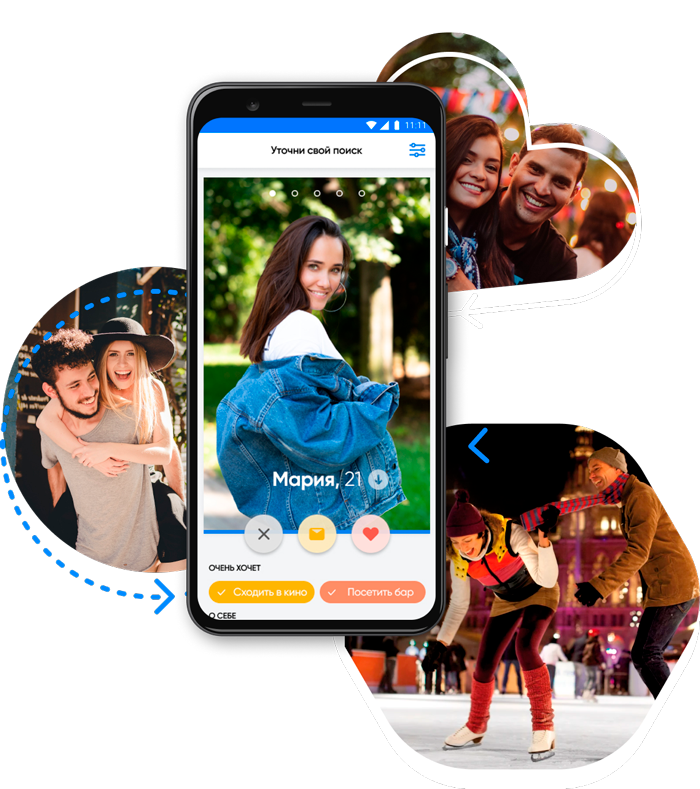
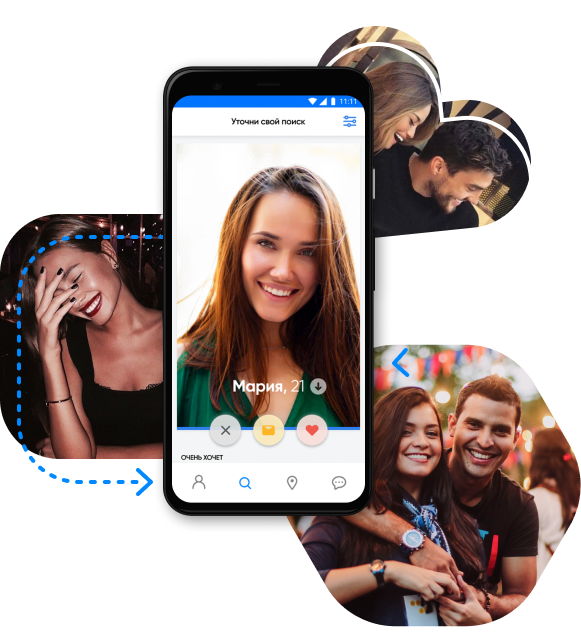
заменил изображение на главной

diff --git a/index.html b/index.html
@@ -4,7 +4,7 @@
     <meta charset="UTF-8" content="width=device-width, initial-scale=1, shrink-to-fit=no" name="viewport">
     <title>Finder</title>
     <link rel="stylesheet" href="assets/css/bootstrap-grid.css">
-    <link rel="stylesheet" href="style.css?ver=1.0.4">
+    <link rel="stylesheet" href="style.css?ver=1.0.5">
     <link rel="icon" href="favicon.png" type="image/png">
     <link rel="shortcut icon" href="favicon.png" type="image/png">
 </head>
